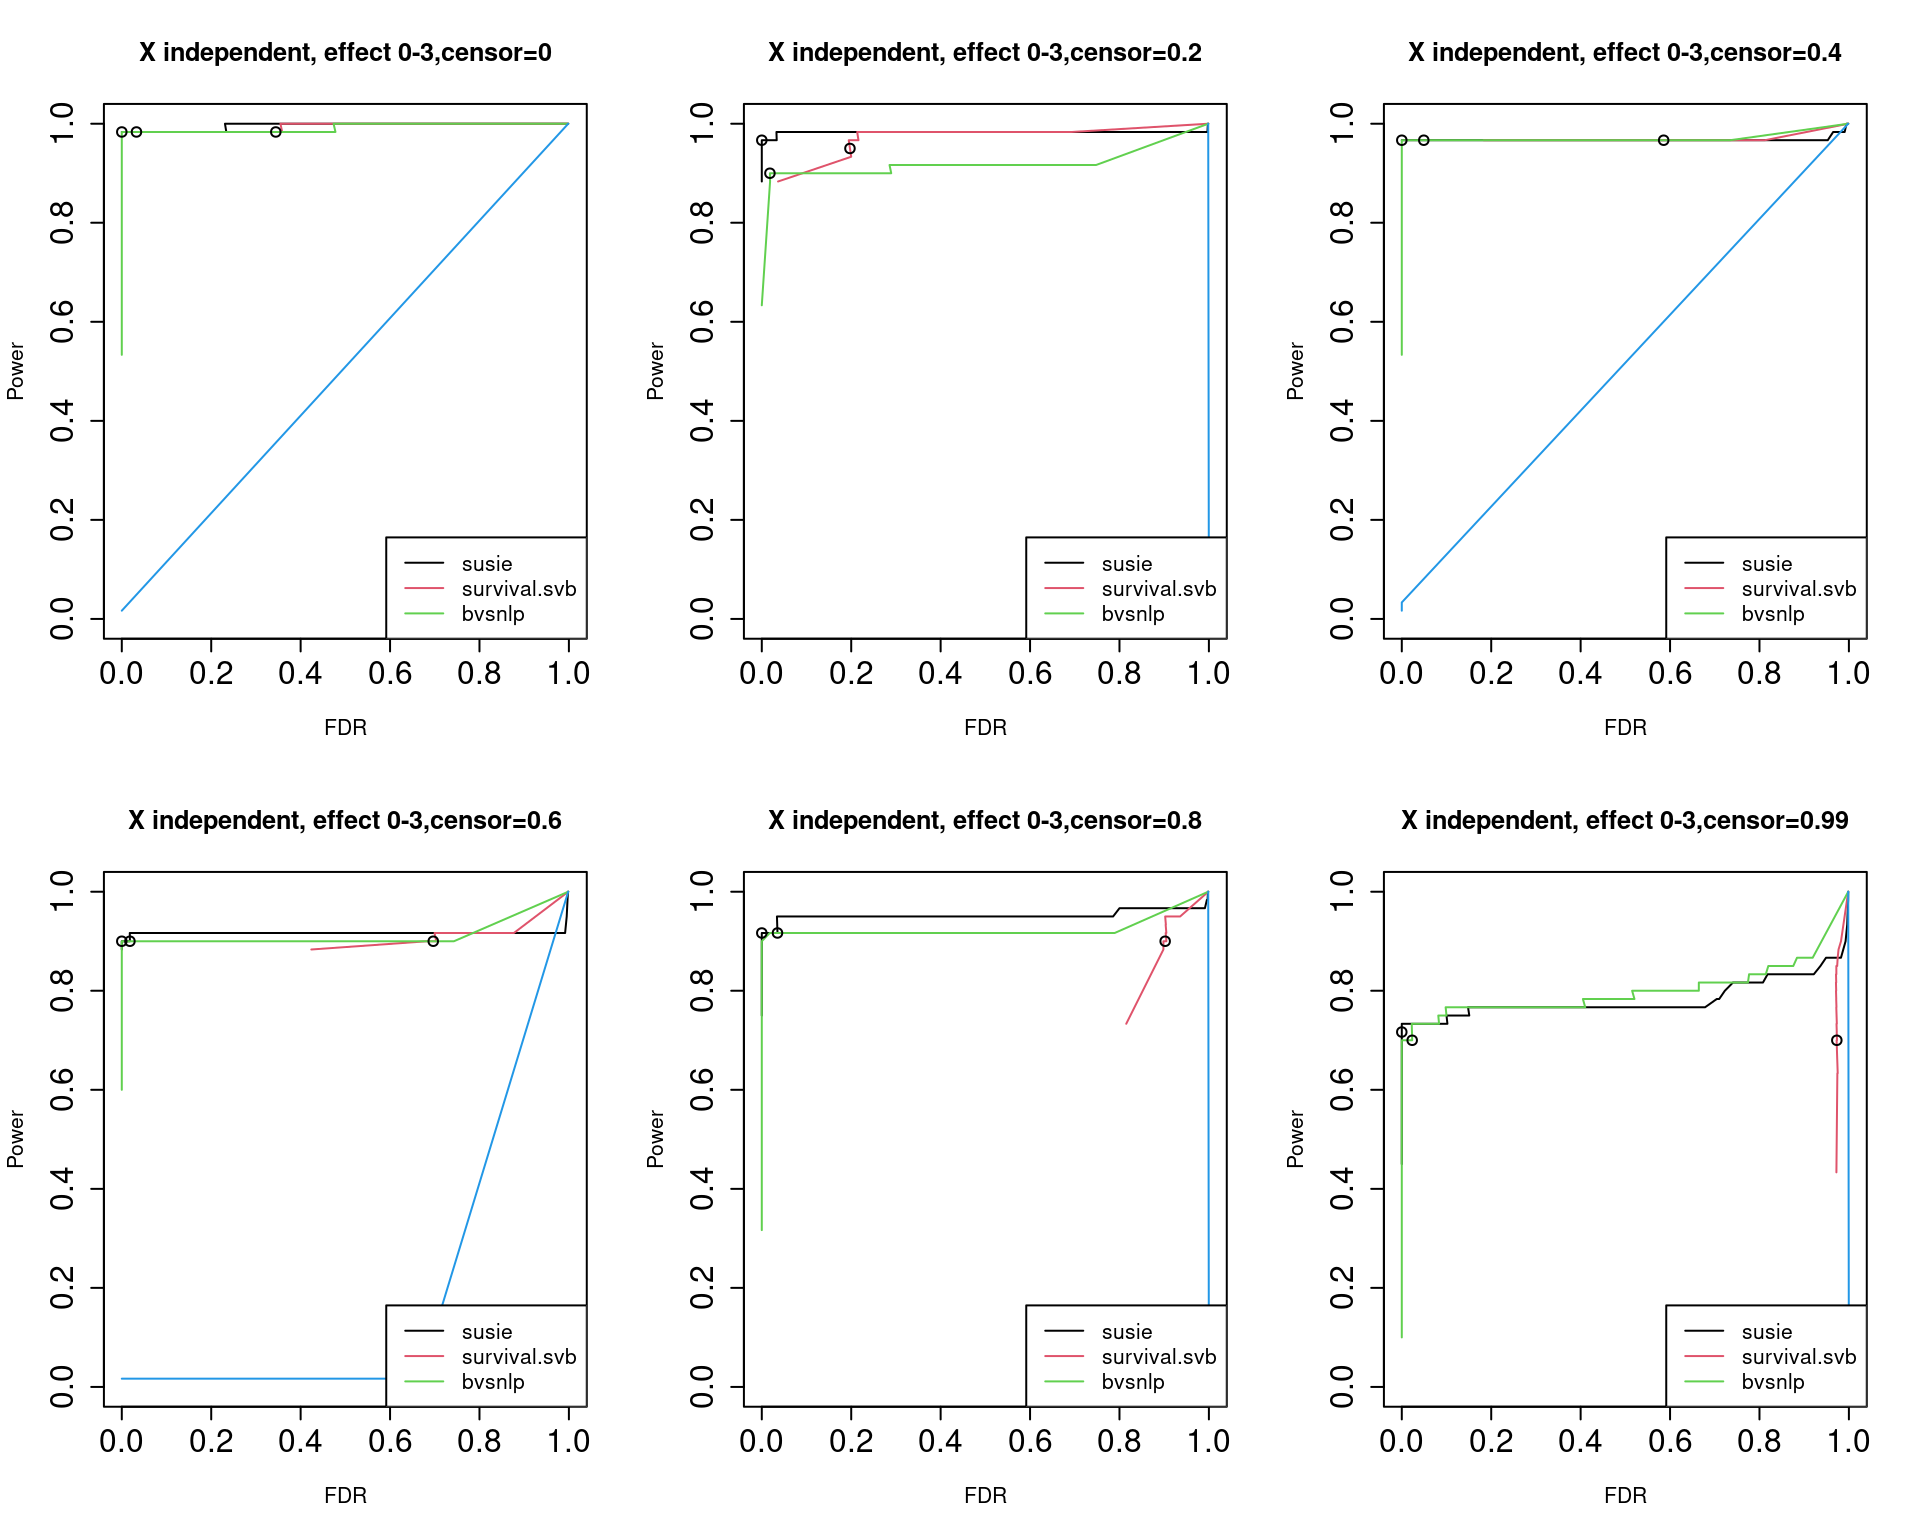
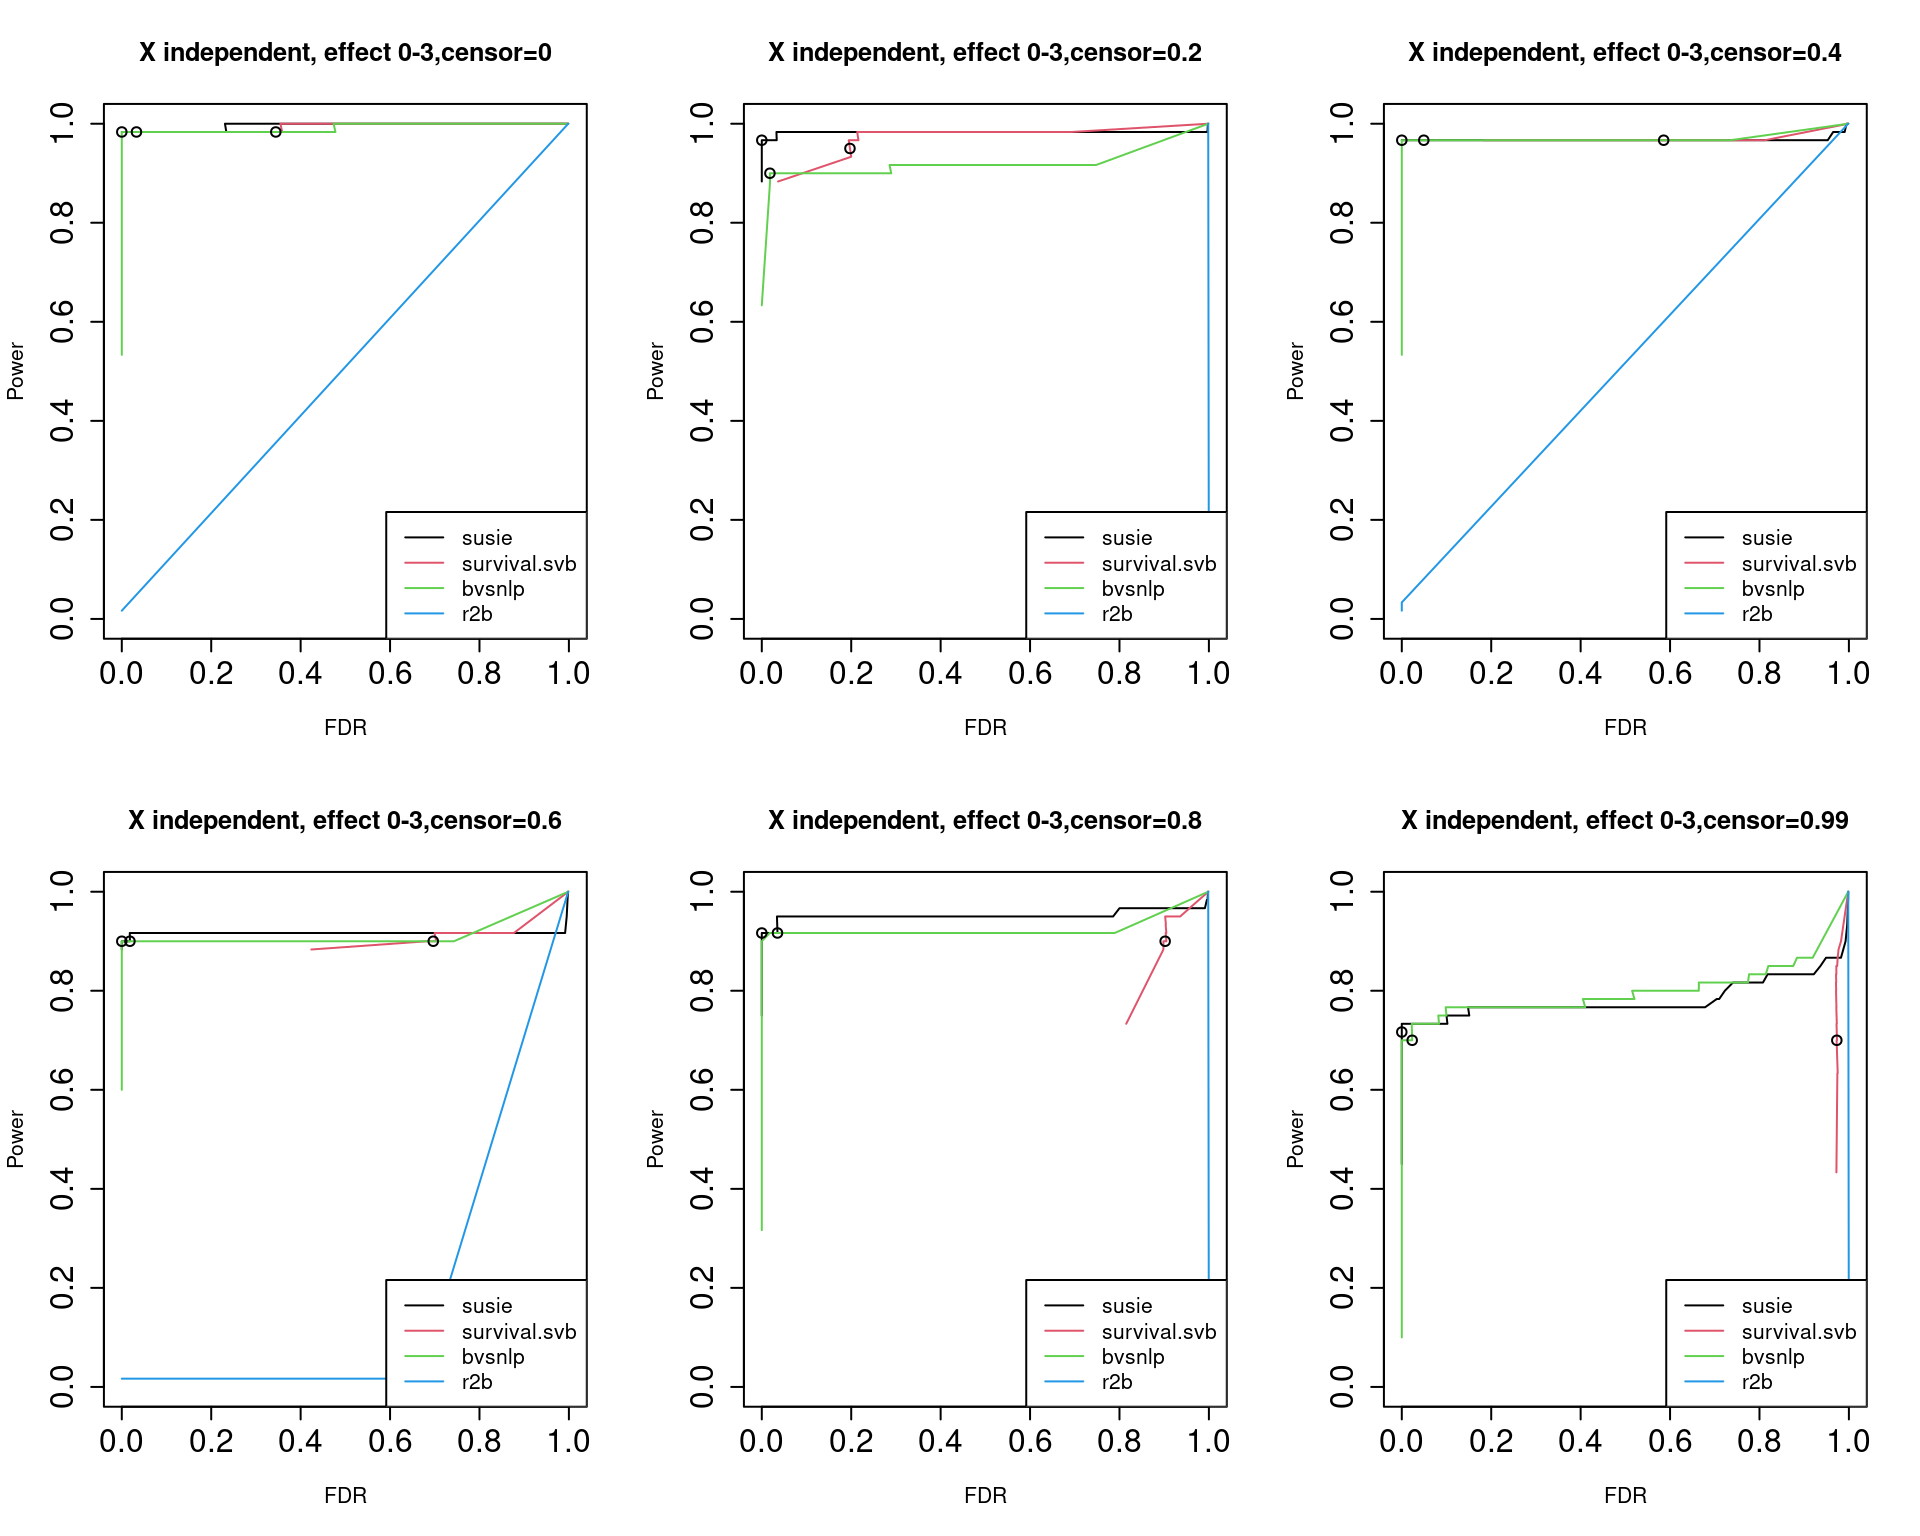
Build site.

diff --git a/docs/compare_method_large_sample.html b/docs/compare_method_large_sample.html
@@ -13,7 +13,7 @@
 
 <meta name="date" content="2024-01-29" />
 
-<title>Power vs. fdr: version 4</title>
+<title>Method comparison: Power vs. fdr</title>
 
 <script src="site_libs/header-attrs-2.14/header-attrs.js"></script>
 <script src="site_libs/jquery-3.6.0/jquery-3.6.0.min.js"></script>
@@ -362,7 +362,7 @@ div.tocify {
 
 
 
-<h1 class="title toc-ignore">Power vs. fdr: version 4</h1>
+<h1 class="title toc-ignore">Method comparison: Power vs. fdr</h1>
 <h4 class="author">Yunqi Yang</h4>
 <h4 class="date">01/29/2024</h4>
 
@@ -524,15 +524,15 @@ project makes it easier to run your code on other machines.</p>
 <div class="panel panel-default">
 <div class="panel-heading">
 <p class="panel-title">
-<a data-toggle="collapse" data-parent="#workflowr-checks" href="#strongRepositoryversionstrongahrefhttpsgithubcomyunqiyang0215survivalsusietree5a62ce3458f5666fe5ea16f45d36754736cff3c5targetblank5a62ce3a">
+<a data-toggle="collapse" data-parent="#workflowr-checks" href="#strongRepositoryversionstrongahrefhttpsgithubcomyunqiyang0215survivalsusietreec084cce51ac0ccb6f7732d614db50d1ac3ce9e98targetblankc084ccea">
 <span class="glyphicon glyphicon-ok text-success"
 aria-hidden="true"></span> <strong>Repository version:</strong>
-<a href="https://github.com/yunqiyang0215/survival-susie/tree/5a62ce3458f5666fe5ea16f45d36754736cff3c5" target="_blank">5a62ce3</a>
+<a href="https://github.com/yunqiyang0215/survival-susie/tree/c084cce51ac0ccb6f7732d614db50d1ac3ce9e98" target="_blank">c084cce</a>
 </a>
 </p>
 </div>
 <div
[2 lines of base64/hex data omitted]
 class="panel-collapse collapse">
 <div class="panel-body">
 <p>
@@ -542,7 +542,7 @@ reproducibility.
 </p>
 <p>
 The results in this page were generated with repository version
-<a href="https://github.com/yunqiyang0215/survival-susie/tree/5a62ce3458f5666fe5ea16f45d36754736cff3c5" target="_blank">5a62ce3</a>.
+<a href="https://github.com/yunqiyang0215/survival-susie/tree/c084cce51ac0ccb6f7732d614db50d1ac3ce9e98" target="_blank">c084cce</a>.
 See the <em>Past versions</em> tab to see a history of the changes made
 to the R Markdown and HTML files.
 </p>
@@ -610,6 +610,40 @@ Message
 </tr>
 </thead>
 <tbody>
+<tr>
+<td>
+Rmd
+</td>
+<td>
+<a href="https://github.com/yunqiyang0215/survival-susie/blob/c084cce51ac0ccb6f7732d614db50d1ac3ce9e98/analysis/compare_method_large_sample.Rmd" target="_blank">c084cce</a>
+</td>
+<td>
+yunqi yang
+</td>
+<td>
+2024-01-30
+</td>
+<td>
+wflow_publish("analysis/compare_method_large_sample.Rmd")
+</td>
+</tr>
+<tr>
+<td>
+html
+</td>
+<td>
+<a href="https://rawcdn.githack.com/yunqiyang0215/survival-susie/b70bfac6255b666b60f366937b73df7c1f6385da/docs/compare_method_large_sample.html" target="_blank">b70bfac</a>
+</td>
+<td>
+yunqi yang
+</td>
+<td>
+2024-01-30
+</td>
+<td>
+Build site.
+</td>
+</tr>
 <tr>
 <td>
 Rmd
@@ -832,6 +866,17 @@ Date
 <tbody>
 <tr>
 <td>
+<a href="https://github.com/yunqiyang0215/survival-susie/blob/b70bfac6255b666b60f366937b73df7c1f6385da/docs/figure/compare_method_large_sample.Rmd/unnamed-chunk-4-1.png" target="_blank">b70bfac</a>
+</td>
+<td>
+yunqi yang
+</td>
+<td>
+2024-01-30
+</td>
+</tr>
+<tr>
+<td>
 <a href="https://github.com/yunqiyang0215/survival-susie/blob/1c713686457474f7b819398e604abd9653da767a/docs/figure/compare_method_large_sample.Rmd/unnamed-chunk-4-1.png" target="_blank">1c71368</a>
 </td>
 <td>
@@ -878,7 +923,7 @@ for (i in 1:length(censor_lvl)){
   points(res.susie[t95,2], res.susie[t95, 1])
   points(res.svb[t95,2], res.svb[t95, 1])
   points(res.bvsnlp[t95,2], res.bvsnlp[t95, 1])
-  legend(&quot;bottomright&quot;, legend = c(&quot;susie&quot;, &quot;survival.svb&quot;, &quot;bvsnlp&quot;), col = c(1,2,3), lty = 1)
+  legend(&quot;bottomright&quot;, legend = c(&quot;susie&quot;, &quot;survival.svb&quot;, &quot;bvsnlp&quot;, &quot;r2b&quot;), col = c(1,2,3, 4), lty = 1)
 }</code></pre>
 <p><img src="figure/compare_method_large_sample.Rmd/unnamed-chunk-5-1.png" width="1152" style="display: block; margin: auto;" /></p>
 <p>
@@ -903,6 +948,17 @@ Date
 </tr>
 </thead>
 <tbody>
+<tr>
+<td>
+<a href="https://github.com/yunqiyang0215/survival-susie/blob/b70bfac6255b666b60f366937b73df7c1f6385da/docs/figure/compare_method_large_sample.Rmd/unnamed-chunk-5-1.png" target="_blank">b70bfac</a>
+</td>
+<td>
+yunqi yang
+</td>
+<td>
+2024-01-30
+</td>
+</tr>
 <tr>
 <td>
 <a href="https://github.com/yunqiyang0215/survival-susie/blob/1c713686457474f7b819398e604abd9653da767a/docs/figure/compare_method_large_sample.Rmd/unnamed-chunk-5-1.png" target="_blank">1c71368</a>
@@ -952,9 +1008,47 @@ for (i in 1:length(censor_lvl)){
   points(res.susie[t95,2], res.susie[t95, 1])
   points(res.svb[t95,2], res.svb[t95, 1])
   points(res.bvsnlp[t95,2], res.bvsnlp[t95, 1])
-  legend(&quot;bottomright&quot;, legend = c(&quot;susie&quot;, &quot;survival.svb&quot;, &quot;bvsnlp&quot;), col = c(1,2,3), lty = 1)
+  legend(&quot;bottomright&quot;, legend = c(&quot;susie&quot;, &quot;survival.svb&quot;, &quot;bvsnlp&quot;, &quot;r2b&quot;), col = c(1,2,3,4), lty = 1)
+  
 }</code></pre>
 <p><img src="figure/compare_method_large_sample.Rmd/unnamed-chunk-6-1.png" width="960" style="display: block; margin: auto;" /></p>
+<p>
+<button type="button" class="btn btn-default btn-xs btn-workflowr btn-workflowr-fig" data-toggle="collapse" data-target="#fig-unnamed-chunk-6-1">
+Past versions of unnamed-chunk-6-1.png
+</button>
+</p>
+<div id="fig-unnamed-chunk-6-1" class="collapse">
+<div class="table-responsive">
+<table class="table table-condensed table-hover">
+<thead>
+<tr>
+<th>
+Version
+</th>
+<th>
+Author
+</th>
+<th>
+Date
+</th>
+</tr>
+</thead>
+<tbody>
+<tr>
+<td>
+<a href="https://github.com/yunqiyang0215/survival-susie/blob/b70bfac6255b666b60f366937b73df7c1f6385da/docs/figure/compare_method_large_sample.Rmd/unnamed-chunk-6-1.png" target="_blank">b70bfac</a>
+</td>
+<td>
+yunqi yang
+</td>
+<td>
+2024-01-30
+</td>
+</tr>
+</tbody>
+</table>
+</div>
+</div>
 <p>The dots indicate PIP threshold = 0.95.</p>
 <br>
 <p>
